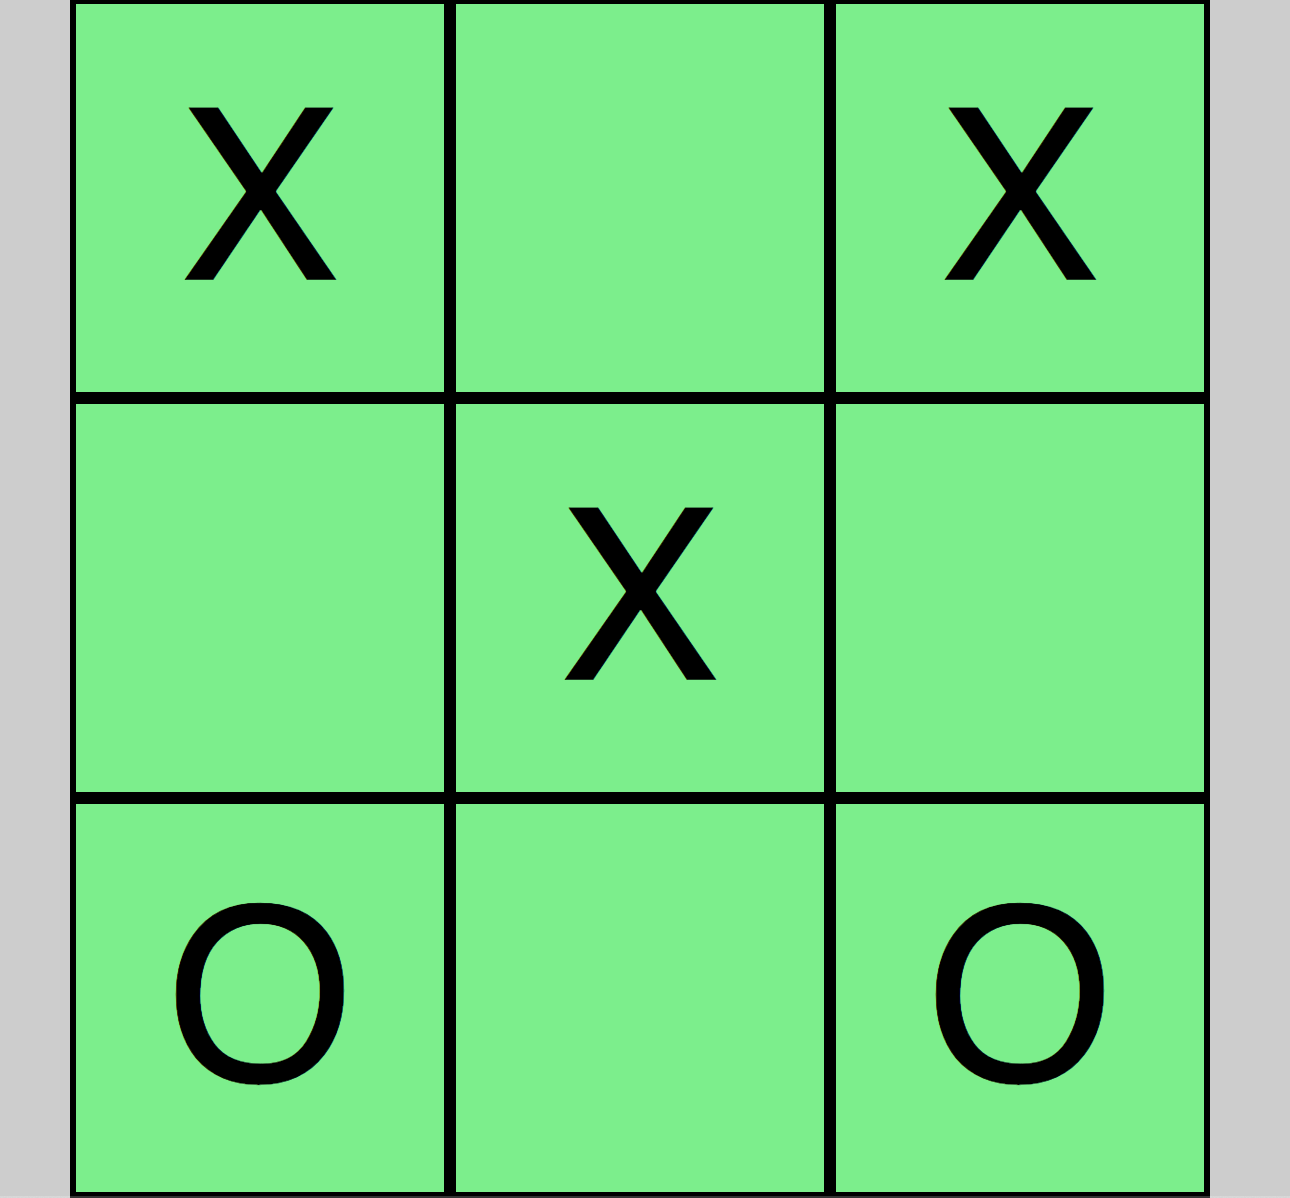
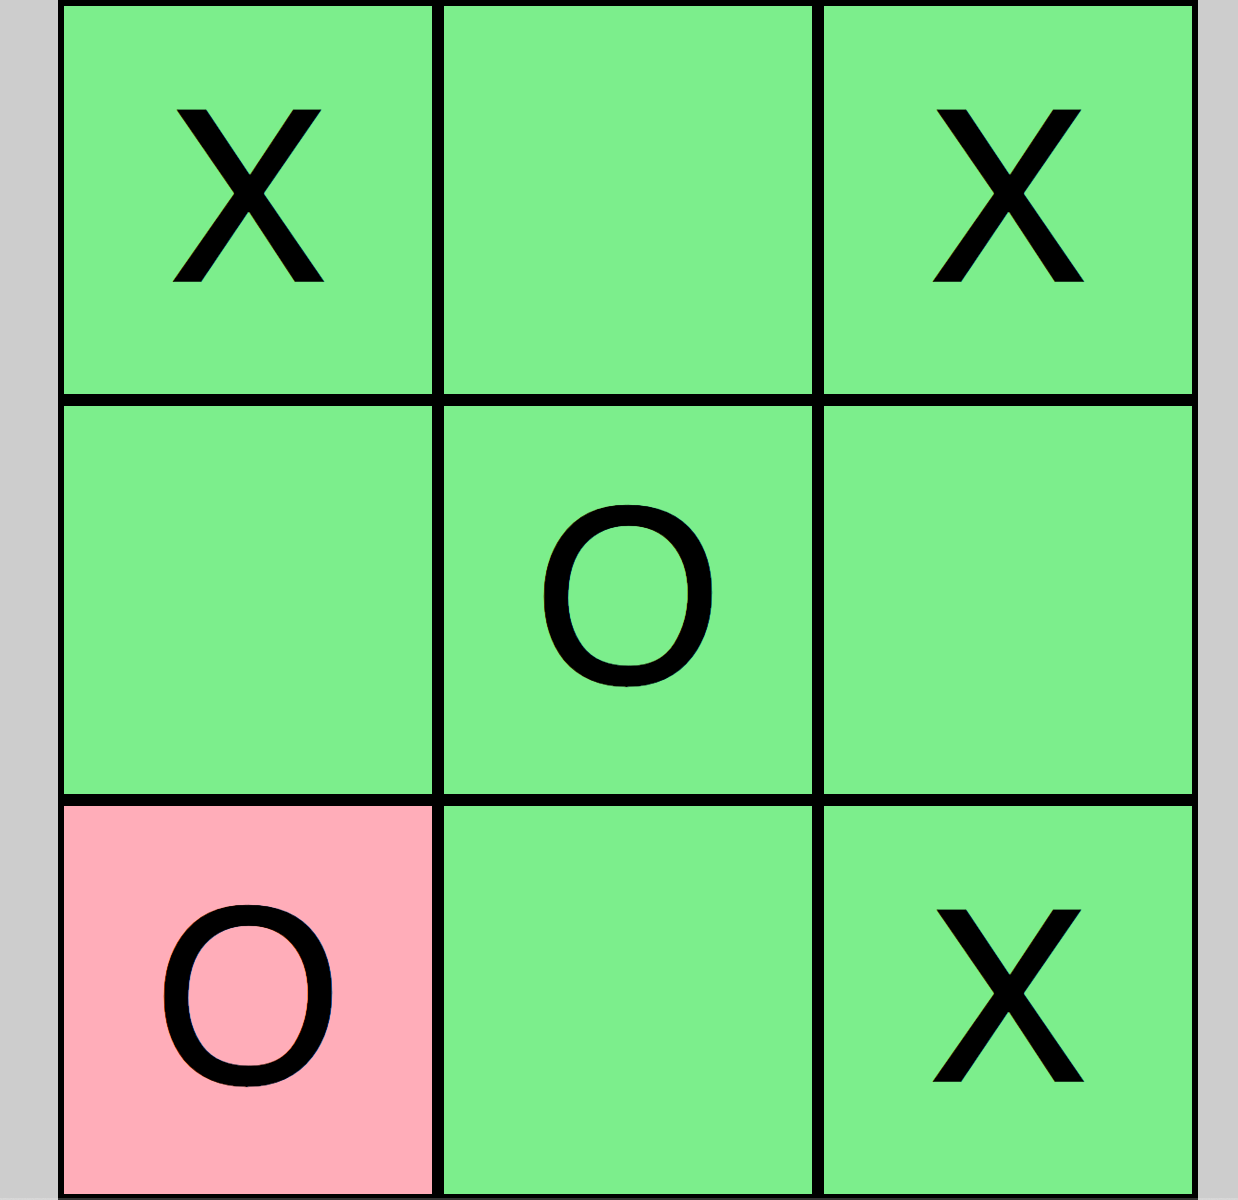
Resume additions and TTT pic edit

diff --git a/index.html b/index.html
@@ -496,14 +496,12 @@
               <div class="card-body">
                 <div class="card-category-box">
                   <div class="card-category">
-                    <h6 class="category">Web Design</h6>
+                    <h6 class="category" href="assets/img/resume/resume.png">Resume</h6>
                   </div>
                 </div>
-                <h3 class="card-title"><a href="blog-single.html">See more ideas about Travel</a></h3>
+                <h3 class="card-title"></h3>
                 <p class="card-description">
-                  Proin eget tortor risus. Pellentesque in ipsum id orci porta dapibus. Praesent sapien massa, convallis
-                  a pellentesque nec,
-                  egestas non nisi.
+                  test
                 </p>
               </div>
               <div class="card-footer">
@@ -616,23 +614,18 @@
                     </div>
                     <div class="more-info">
                       <p class="lead">
-                        Lorem ipsum dolor sit amet consectetur adipisicing elit. Facilis dolorum dolorem soluta quidem
-                        expedita aperiam aliquid at.
-                        Totam magni ipsum suscipit amet? Autem nemo esse laboriosam ratione nobis
-                        mollitia inventore?
+                      Resume Link here
                       </p>
                       <ul class="list-ico">
-                        <li><span class="ion-ios-location"></span> 329 WASHINGTON ST BOSTON, MA 02108</li>
-                        <li><span class="ion-ios-telephone"></span> (617) 557-0089</li>
-                        <li><span class="ion-email"></span> contact@example.com</li>
+                        <li><span class="ion-ios-telephone"></span>Brendan Montima</li>
+                        <li><span class="ion-ios-location"></span>BOSTON, MA</li>
+                        <li><span class="ion-email"></span> bmontima@gmial.com</li>
                       </ul>
                     </div>
                     <div class="socials">
                       <ul>
-                        <li><a href=""><span class="ico-circle"><i class="ion-social-facebook"></i></span></a></li>
                         <li><a href=""><span class="ico-circle"><i class="ion-social-instagram"></i></span></a></li>
                         <li><a href=""><span class="ico-circle"><i class="ion-social-twitter"></i></span></a></li>
-                        <li><a href=""><span class="ico-circle"><i class="ion-social-pinterest"></i></span></a></li>
                       </ul>
                     </div>
                   </div>
